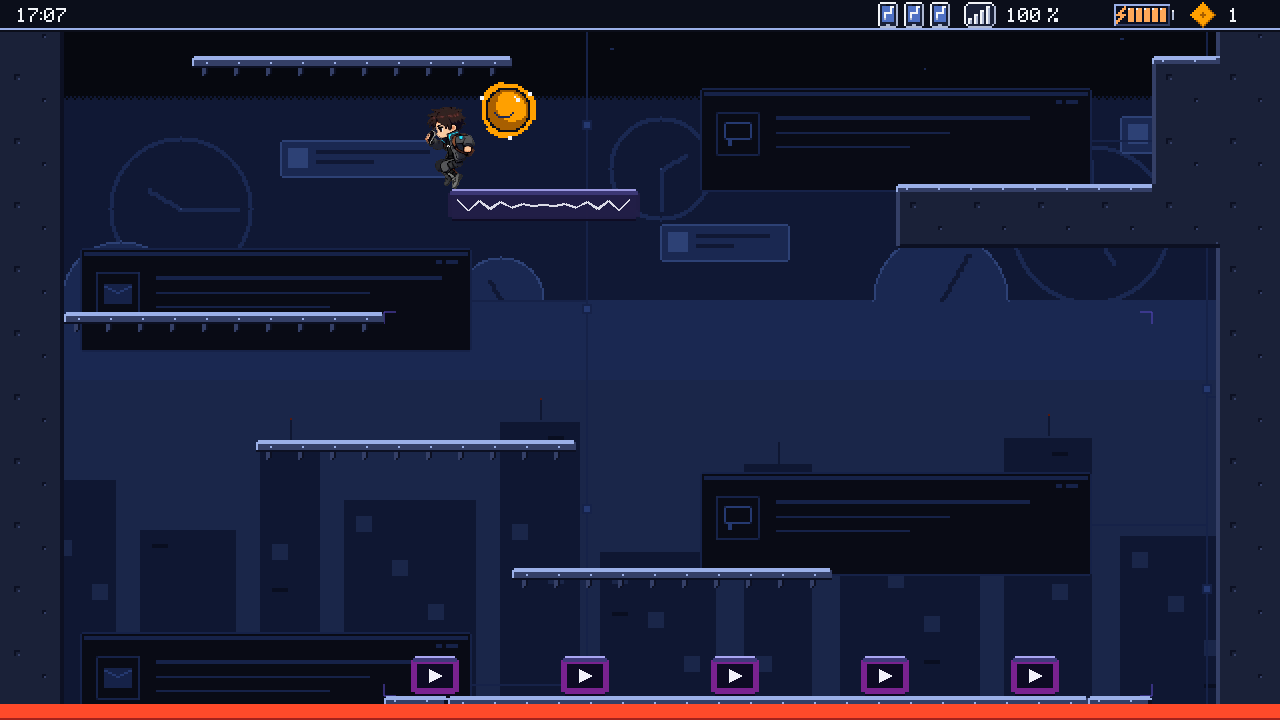
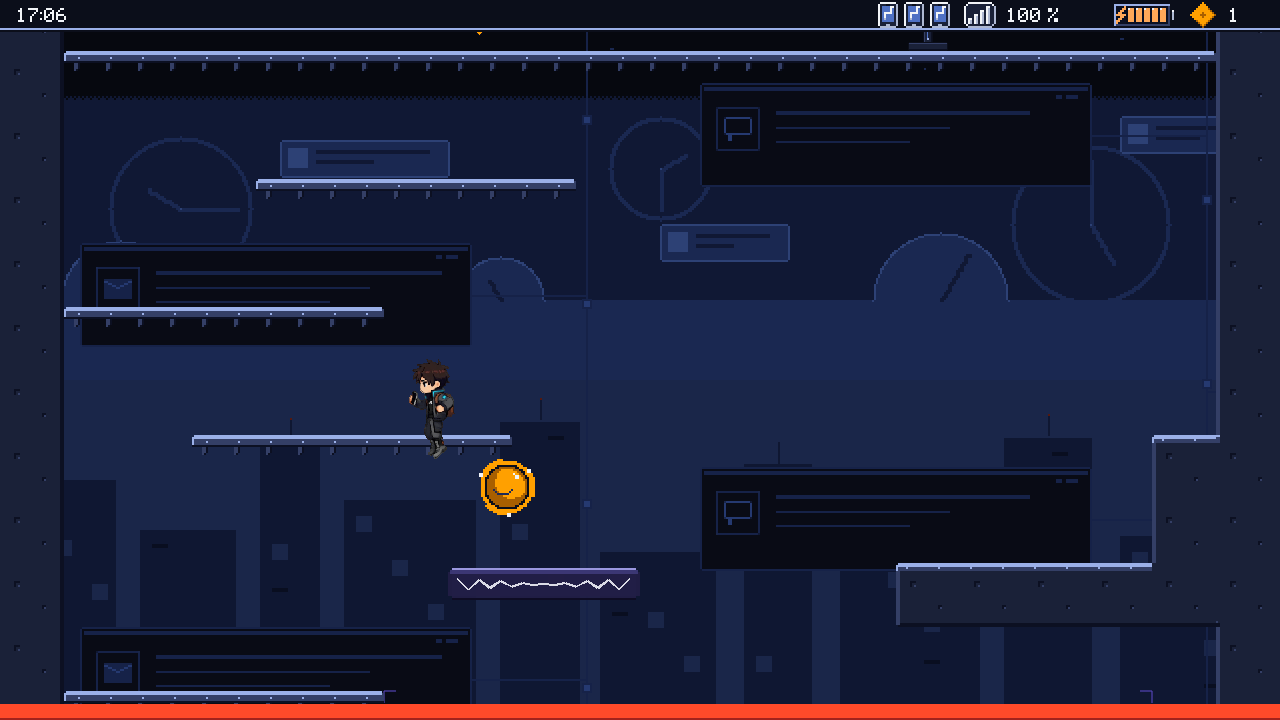
Mundo 2, 2-1: scroll mas rapido y recarga de energia en el bucle (feedback del usuario)
- 2-1: scroll un 30 % mas rapido (0,65/0,78/0,78/0,9 tiles/s); camino 204,6 -> 160,5 s.
- Regla anti-atasco: cargador_bucle (+100, 10 s) dentro de la banda del bucle en 2-1, 2-2 y bucle_test.
- Validador: check_loop_energy modela el peor caso (entra al bucle con 0 de energia) y falla con
  «soft-lock de energia» si no se puede recargar y salir; pruebas positivas y negativas.

diff --git a/tools/level_plan.py b/tools/level_plan.py
@@ -582,6 +582,7 @@ class Planner:
         steps = self.check_clones(steps)
         steps = self.check_scroll(steps)
         steps = self.check_energy(steps)
+        self.check_loop_energy(steps)
         self.info["bars"] = []
         for st in steps:
             if st.get("target", {}).get("type") == "update_bar":
@@ -2897,6 +2898,9 @@ class Planner:
                 energy -= need
             uses += need
             s["energy_before"] = round(energy + need, 1)
+            if a == "drain":
+                # Peor caso de un bucle (check_loop_energy): Isak entra sin energia.
+                energy = 0.0
             if a == "charge":
                 ch = s["charger"]
                 if s["tw"] + EPS >= ready_at.get(ch["id"], 0.0) and energy < cap - EPS:
@@ -2976,6 +2980,162 @@ class Planner:
         if energy + ch["amount"] + EPS < need and need > self.rules.energy_max:
             return None
         return steps[:k] + insert + steps[k:]
+
+    # --- Soft-lock de energia en los bucles (Mundo 2; arreglo tras la primera prueba del usuario, 2026-10-23) ---
+
+    def _loop_repeat_s(self, band):
+        """Segundos (tiempo del mundo) que tarda una repeticion de la banda: periodo / la velocidad mas alta
+        del scroll con el borde de abajo en las filas que recorre durante la repeticion."""
+        scroll = self.level.get("scroll", {}) if isinstance(self.level.get("scroll"), dict) else {}
+        default = float(scroll.get("default_speed_tiles_s", 0.5))
+        view = int(math.ceil(720.0 / self.T))
+        rows = range(band[0] + view, band[1] + view + 1)
+        speeds = []
+        for r in rows:
+            speed = default
+            for st in scroll.get("stages", []):
+                if st["y_from"] <= r <= st["y_to"]:
+                    speed = float(st["speed_tiles_s"])
+                    break
+            speeds.append(abs(speed))
+        top = max(speeds) if speeds else default
+        return (band[1] - band[0]) / top if top > 0.0 else INF
+
+    def check_loop_energy(self, steps):
+        """Regla anti-atasco de los bucles (docs/propuesta-mundo-2.md §8.1, «arreglo tras la primera prueba del
+        usuario»): la seccion en bucle se repite sin fin y su salida pide el Debug, asi que quien entra sin
+        energia (la minima posible tras la parte previa es 0: nada impide gastarla antes, p. ej. en el secreto
+        de la banda) tiene que poder recargar DENTRO de cada repeticion sin tocar el borde, o se queda atrapado.
+        Exige, por cada bucle cuya salida gasta Debug en el camino: (1) un cargador dentro de la banda (sus
+        filas se recorren en cada repeticion, asi que el cargador se repite con ella) que reponga, solo, todo
+        lo que pide la salida, reutilizable y con un enfriamiento que no pase de una repeticion (peor caso de
+        gasto: se gasta la carga entera, se falla y en la repeticion siguiente hay que poder volver a cargar);
+        y (2) que el camino, entrando al bucle con 0 de energia y pasando por ese cargador, siga cumpliendo la
+        energia, el margen del borde del scroll y llegue a la salida sin repetir. Si no: «soft-lock de
+        energia»."""
+        loops = self.level.get("_loops", [])
+        if not loops or self.level.get("camera", {}).get("vertical") != "autoscroll":
+            return
+        T = self.T
+        cap = self.rules.energy_max
+        report = []
+        for lp in loops:
+            b0, b1 = lp["band"]
+            ex = lp["exit"]
+
+            def in_exit(node):
+                x, feet = self.feet(node)
+                return ex[0] * T <= x < (ex[0] + ex[2]) * T and ex[1] * T <= feet - 1.0 < (ex[1] + ex[3]) * T
+
+            # Entrada al bucle: el primer paso con Isak en la banda o en las filas que la repiten debajo.
+            view = int(math.ceil(720.0 / T))
+            exit_i = entry_i = None
+            for i, s in enumerate(steps):
+                node = self.node_of(s)
+                if node is None:
+                    continue
+                if entry_i is None and b0 <= node[1] < b1 + view:
+                    entry_i = i
+                if s["action"] == "move" and in_exit(s["to"]):
+                    exit_i = i
+                    break
+            if exit_i is None or entry_i is None:
+                continue
+            need = sum(float(s.get("active_s", 0.0)) * self.debug_drain
+                       for s in steps[entry_i:exit_i + 1] if s["action"] == "debug_on")
+            if need <= EPS:
+                continue
+            repeat_s = self._loop_repeat_s(lp["band"])
+            entry = {"id": lp["id"], "need": round(need, 1), "repeat_s": round(repeat_s, 1), "charger": None}
+            report.append(entry)
+            in_band = [ch for ch in self.m.chargers if b0 <= ch["cell"][1] <= b1]
+            where = "filas %d-%d" % (b0, b1)
+            if not in_band:
+                self.error("seccion en bucle %s: soft-lock de energia: la salida pide %.0f de energia con el Debug y "
+                           "dentro de la banda (%s) no hay ningun cargador; quien entre al bucle sin energia no puede "
+                           "recargar y se queda atrapado" % (lp["id"], need, where))
+                continue
+            good = [ch for ch in in_band if ch["reusable"] and min(ch["amount"], cap) + EPS >= need
+                    and ch["cooldown"] <= repeat_s + EPS]
+            if not good:
+                ch = in_band[0]
+                why = ("es de un solo uso" if not ch["reusable"] else
+                       "repone %.0f y la salida pide %.0f" % (min(ch["amount"], cap), need)
+                       if min(ch["amount"], cap) + EPS < need else
+                       "se enfria %.1f s y una repeticion dura %.1f s" % (ch["cooldown"], repeat_s))
+                self.error("seccion en bucle %s: soft-lock de energia: el cargador %s de la banda no basta (%s)"
+                           % (lp["id"], ch["id"], why), ch["cell"])
+                continue
+            failures = None
+            for ch in good:
+                errors = self._loop_worst_case(steps, entry_i, exit_i, ch)
+                if not errors:
+                    entry["charger"] = ch["id"]
+                    entry["amount"] = min(ch["amount"], cap)
+                    entry["cooldown_s"] = ch["cooldown"]
+                    failures = None
+                    break
+                if failures is None:
+                    failures = (ch, errors)
+            if failures is not None:
+                ch, errors = failures
+                message, node = errors[0][0], errors[0][1]
+                self.error("seccion en bucle %s: soft-lock de energia: entrando sin energia y recargando en %s, %s"
+                           % (lp["id"], ch["id"], message), node)
+        if report:
+            self.info["loop_energy"] = report
+
+    def _loop_worst_case(self, steps, entry_i, exit_i, ch):
+        """Camino del peor caso: energia a 0 al entrar al bucle y recarga en el cargador `ch` de la banda (si
+        el camino no pasa ya por el, con el desvio mas corto desde un movimiento antes del primer Debug).
+        Devuelve los errores de energia y de scroll de ese camino (lista vacia si vale)."""
+        first_debug = next((i for i in range(entry_i, exit_i + 1) if steps[i]["action"] == "debug_on"), exit_i)
+        variant = [dict(s) for s in steps if s["action"] != "wait_scroll"]
+        # Indices en `variant` (sin las esperas del scroll, que se recalculan).
+        keep = [i for i, s in enumerate(steps) if s["action"] != "wait_scroll"]
+        pos = {i: k for k, i in enumerate(keep)}
+        v_entry = pos.get(entry_i, next((pos[i] for i in keep if i >= entry_i), len(variant)))
+        v_debug = next((pos[i] for i in keep if i >= first_debug), len(variant))
+        passes = any(s["action"] == "charge" and s["charger"]["id"] == ch["id"] for s in variant[v_entry:v_debug])
+        if not passes:
+            best = None
+            for k in range(v_entry, v_debug):
+                s = variant[k]
+                if s["action"] != "move" or s.get("timed"):
+                    continue
+                node = tuple(s["to"])
+                state = s.get("state", frozenset())
+                times, parent = self.m.time_search({node: 0.0}, state, debug=False)
+                for n in times:
+                    x, f = self.feet(n)
+                    if not rects_overlap(self.hurt_rect(x, f), ch["rect"]):
+                        continue
+                    back_times, back_parent = self.m.time_search({n: 0.0}, state, debug=False)
+                    if node not in back_times:
+                        continue
+                    cost = times[n] + back_times[node]
+                    if best is None or cost < best[0]:
+                        best = (cost, k, node, n, parent, back_parent, state)
+            if best is None:
+                return [("el cargador %s no se alcanza sin el Debug desde el camino del bucle" % ch["id"], None)]
+            _, k, node, target, parent, back_parent, state = best
+            insert = [self.move(u, e, state) for u, e in path_to(parent, target)]
+            insert.append({"action": "charge", "at": target, "charger": ch, "state": state, "detour": True,
+                           "target": {"type": "charger", "id": ch["id"]}})
+            insert.extend(self.move(u, e, state) for u, e in path_to(back_parent, node))
+            variant = variant[:k + 1] + insert + variant[k + 1:]
+        drain_at = self.node_of(variant[v_entry]) if v_entry < len(variant) else None
+        variant.insert(v_entry, {"action": "drain", "at": drain_at, "state": variant[v_entry].get("state", frozenset())
+                                 if v_entry < len(variant) else frozenset()})
+        saved_errors, saved_info = self.errors, dict(self.info)
+        self.errors = []
+        try:
+            variant = self.check_energy_with(variant, 8)
+            self.check_scroll(variant)
+            found = [(m, n) for m, n, _obj in self.errors]
+        finally:
+            self.errors, self.info = saved_errors, saved_info
+        return found
 
     def describe(self, s):
         a = s["action"]

diff --git a/tests/test_level_2_1.py b/tests/test_level_2_1.py
@@ -85,13 +85,30 @@ class Level21Test(unittest.TestCase):
         scroll = self.level["scroll"]
         self.assertEqual(scroll["start_resume_row"], row(8), "Arranca al subir a h 8")
         speeds = sorted((s["y_from"], s["speed_tiles_s"]) for s in scroll["stages"])
-        self.assertEqual([v for _, v in speeds], [0.7, 0.6, 0.6, 0.5], "0,5 / 0,6 / 0,6 / 0,7 de abajo arriba")
+        self.assertEqual([v for _, v in speeds], [0.9, 0.78, 0.78, 0.65],
+                         "0,65 / 0,78 / 0,78 / 0,9 de abajo arriba (un 30 % mas rapido tras la primera prueba del usuario)")
         self.assertEqual(scroll["stops"], [{"id": "sync_1", "at_row": row(62) + 2, "resume_row": row(63)}])
         info = self.result["plan"]["scroll"]
         self.assertGreaterEqual(info["margin_min_tiles"], 3.0, "Nunca a menos de 3 tiles del borde")
         self.assertEqual(info["loops"], ["bucle_para_ti"])
-        self.assertTrue(190.0 <= self.result["plan"]["duration_s"] <= 220.0,
-                        "Camino de unos 190-220 s (§4.1): %.1f" % self.result["plan"]["duration_s"])
+        self.assertTrue(145.0 <= self.result["plan"]["duration_s"] <= 180.0,
+                        "Camino de unos 160 s con el scroll mas rapido (antes 205 s): %.1f"
+                        % self.result["plan"]["duration_s"])
+
+    def test_loop_has_a_charger_against_the_energy_soft_lock(self):
+        """Arreglo tras la primera prueba del usuario (2026-10-23): quien llegaba al bucle sin energia se
+        quedaba atrapado. Cargador de carga completa dentro de la banda (se repite con ella), en el camino y
+        fuera de la vista en el momento de la repeticion; el validador modela el peor caso."""
+        loop = obj(self.level, "bucle_para_ti")
+        charger = obj(self.level, "cargador_bucle")
+        band = loop["params"]["band"]
+        self.assertTrue(band[0] + 12 <= charger["y"] <= band[1], "En la banda, fuera de la vista al repetirse")
+        self.assertEqual((charger["params"]["amount"], charger["params"]["reusable"]), (100.0, True))
+        report = {lp["id"]: lp for lp in self.result["plan"]["loop_energy"]}
+        entry = report["bucle_para_ti"]
+        self.assertEqual(entry["charger"], "cargador_bucle")
+        self.assertGreaterEqual(entry["amount"], entry["need"], "Una carga basta para la salida")
+        self.assertLessEqual(entry["cooldown_s"], entry["repeat_s"], "Se enfria antes de la repeticion siguiente")
 
     def test_autoplay_videos(self):
         ola, rayo, cuenta = (enemy(self.level, i) for i in ("video_ola", "video_rayo", "video_cuenta"))
@@ -173,7 +190,7 @@ class Level21Test(unittest.TestCase):
         self.assertEqual((points, points - secret_points, secret_points), (8, 6, 2),
                          "8 puntos: 6 en la ruta + 2 en secretos (§4.1.1)")
         chargers = sorted(o["params"]["id"] for o in lvl["objects"] if o["type"] == "charger")
-        self.assertEqual(chargers, ["cargador_1", "cargador_2"])
+        self.assertEqual(chargers, ["cargador_1", "cargador_2", "cargador_bucle"])
         self.assertFalse([o for o in lvl["objects"] if o["type"] == "power_bank_pickup"], "Sin power bank")
         self.assertGreater(self.result["plan"]["energy"]["min"], 0.0)
 

diff --git a/tests/test_world2_feed_validator.py b/tests/test_world2_feed_validator.py
@@ -252,3 +252,47 @@ class FeedHazardModelTest(unittest.TestCase):
 
 if __name__ == "__main__":
     unittest.main()
+
+
+class LoopEnergySoftLockTest(unittest.TestCase):
+    """Regla anti-atasco de los bucles (2026-10-23, arreglo tras la primera prueba del usuario del 2-1): la
+    salida del bucle pide el Debug y el bucle se repite sin fin, asi que quien entra sin energia tiene que
+    poder recargar dentro de la banda; el validador modela ese peor caso."""
+
+    def test_loop_with_a_charger_in_the_band_validates(self):
+        result = run(load("bucle_test"))
+        self.assertTrue(result["ok"], messages(result))
+        report = {lp["id"]: lp for lp in result["plan"]["loop_energy"]}
+        self.assertEqual(report["bucle_1"]["charger"], "cargador_bucle")
+
+    def test_loop_without_a_charger_is_an_energy_soft_lock(self):
+        level = load("bucle_test")
+        level["objects"] = [o for o in level["objects"] if o["type"] != "charger"]
+        result = run(level)
+        self.assertFalse(result["ok"])
+        self.assertTrue(any("soft-lock de energia" in m and "bucle_1" in m for m in messages(result)),
+                        messages(result))
+
+    def test_charger_that_does_not_cover_the_exit_is_an_energy_soft_lock(self):
+        level = load("bucle_test")
+        charger = next(o for o in level["objects"] if o["type"] == "charger")
+        charger["params"]["amount"] = 20.0
+        result = run(level)
+        self.assertTrue(any("soft-lock de energia" in m and "repone 20" in m for m in messages(result)),
+                        messages(result))
+
+    def test_charger_that_cools_down_longer_than_a_repeat_is_an_energy_soft_lock(self):
+        level = load("bucle_test")
+        charger = next(o for o in level["objects"] if o["type"] == "charger")
+        charger["params"]["cooldown_s"] = 60.0
+        result = run(level)
+        self.assertTrue(any("soft-lock de energia" in m and "se enfria" in m for m in messages(result)),
+                        messages(result))
+
+    def test_charger_below_the_band_does_not_count(self):
+        level = load("bucle_test")
+        charger = next(o for o in level["objects"] if o["type"] == "charger")
+        charger["x"], charger["y"] = 8, 66
+        result = run(level)
+        self.assertTrue(any("soft-lock de energia" in m and "no hay ningun cargador" in m
+                            for m in messages(result)), messages(result))

diff --git a/tests/test_level_2_2.py b/tests/test_level_2_2.py
@@ -228,6 +228,16 @@ class Level22Test(unittest.TestCase):
         self.assertEqual(door["params"]["variant"], "upright")
         self.assertIn("pound:puerta_servicio", items["secreto_servicio"]["secret_gates_opened"])
 
+    def test_loop_has_a_charger_against_the_energy_soft_lock(self):
+        """Arreglo tras la primera prueba del usuario (2026-10-23): un cargador dentro de la banda del bucle;
+        el validador exige que quien entre sin energia pueda recargar y salir (peor caso)."""
+        loop = obj(self.level, "bucle_uno_mas")
+        charger = obj(self.level, "cargador_bucle")
+        self.assertTrue(loop["params"]["band"][0] <= charger["y"] <= loop["params"]["band"][1], "En la banda")
+        self.assertEqual(charger["params"]["amount"], 100.0, "Carga completa")
+        report = {lp["id"]: lp for lp in self.result["plan"]["loop_energy"]}
+        self.assertEqual(report["bucle_uno_mas"]["charger"], "cargador_bucle")
+
     def test_economy(self):
         lvl = self.level
         points = "".join(lvl["grid"]).count("o")
@@ -235,7 +245,7 @@ class Level22Test(unittest.TestCase):
         self.assertEqual((points, points - secret_points, secret_points), (9, 6, 3),
                          "9 puntos: 6 en la ruta + 3 en secretos (§4.2.1)")
         chargers = sorted(o["params"]["id"] for o in lvl["objects"] if o["type"] == "charger")
-        self.assertEqual(chargers, ["cargador_1", "cargador_2", "cargador_3"])
+        self.assertEqual(chargers, ["cargador_1", "cargador_2", "cargador_3", "cargador_bucle"])
         self.assertEqual(len([o for o in lvl["objects"] if o["type"] == "power_bank_pickup"]), 1, "1 power bank")
         self.assertFalse([o for o in lvl["objects"] if o["type"] == "extra_life_pickup"], "Sin vida extra")
         self.assertGreater(self.result["plan"]["energy"]["min"], 0.0)

diff --git a/tools/validate_level.py b/tools/validate_level.py
@@ -3553,6 +3553,12 @@ def format_plan(plan):
                        "" if not scroll.get("at") else " en (fila %d, columna %d)" % tuple(scroll["at"]),
                        scroll["required_tiles"], scroll["waits"], scroll["wait_s"],
                        "; bucles: %s" % ", ".join(scroll["loops"]) if scroll.get("loops") else ""))
+    for lp in plan.get("loop_energy", []):
+        # Regla anti-atasco de los bucles (2026-10-23, arreglo tras la primera prueba del usuario).
+        if lp.get("charger"):
+            out.append("    bucle %s: la salida pide %.0f de energia; peor caso (entra sin energia): recarga en %s "
+                       "(+%.0f, enfriamiento %.1f s; una repeticion dura %.1f s) y sale sin tocar el borde" % (
+                           lp["id"], lp["need"], lp["charger"], lp["amount"], lp["cooldown_s"], lp["repeat_s"]))
     energy = plan.get("energy")
     if energy:
         out.append("    energia: empieza en %.0f, gasta %.0f, recupera %.0f, minimo %.0f, termina en %.0f%s%s" % (

diff --git a/docs/propuesta-mundo-2.md b/docs/propuesta-mundo-2.md
@@ -165,7 +165,7 @@ Los tipos del Mundo 1 (Burbuja, punto rojo, banner, pop-up) **no aparecen** en e
 
 **Doc:** presentar el scroll forzado y el autoplay; unos 5 min; dificultad 2; tramos 1-4, cierre «Quedan 3 segundos…», secreto (tarjeta oculta con video en negro y recuerdo, con el Debug), un punto de sincronización a mitad.
 
-- **Mapa: 20 × 130** (1280 × 8320 px). `target_duration_s` **300**; camino del validador de unos **190-220 s** (con scroll forzado el camino no puede ir más deprisa que el feed). Dificultad `2`. `abilities_available`: pulso, láser, Debug y dash (el gesto `ground_pound`, **no**).
+- **Mapa: 20 × 130** (1280 × 8320 px). `target_duration_s` **300**; camino del validador de unos **190-220 s** (con scroll forzado el camino no puede ir más deprisa que el feed). **Desde el 2026-10-23** (primera prueba del usuario, §8.1): scroll un 30 % más rápido (0,65 / 0,78 / 0,78 / 0,9 tiles/s en lugar de los de la tabla) y camino de unos **160 s**. Dificultad `2`. `abilities_available`: pulso, láser, Debug y dash (el gesto `ground_pound`, **no**).
 
 | Tramo | Alturas | Scroll | Contenido | Duración (camino) |
 |---|---|---|---|---|
@@ -194,7 +194,7 @@ Los tipos del Mundo 1 (Burbuja, punto rojo, banner, pop-up) **no aparecen** en e
 | **Total** | **6** | **2 puntos + mensaje + vida extra** |
 
 - **8 puntos** (6 + 2): la vida extra ocupa el sitio del tercer punto. **PROPUESTA:** compensarlo con 10 en el 2-3 (§4.3), para que el mundo sume 27 como el Mundo 1.
-- **Cargadores:** 2 (+50, reutilizables, 10 s). **Power bank:** no. **Puntos de sincronización:** 1 (`sync_1`, a mitad, doc).
+- **Cargadores:** 2 (+50, reutilizables, 10 s) y, desde el 2026-10-23, `cargador_bucle` (+100) dentro de la banda del bucle (regla anti-atasco, §8.1). **Power bank:** no. **Puntos de sincronización:** 1 (`sync_1`, a mitad, doc).
 - **Energía:** obligatoria ~40 (Debug del bucle); típica 60-80 (secretos A y B, láser a los videos aturdidos). Cada uso obligatorio tiene un cargador a pie (regla anti-atasco, `propuesta-1-2.md` §0.1).
 
 ### 4.2 Nivel 2-2 «Un video más»
@@ -581,6 +581,7 @@ Primera tanda (2026-10-22): los fundamentos técnicos (pasos 0-5 y la parte del 
 - **Paso 21 (hecho 2026-10-23): pruebas de conjunto.** **Negativos:** quieto pierde en el jefe (`tests/test_autoplay_bot.gd`, perfil `idle`, ya estaba); sin Debug no hay pausa (`tests/test_autoplay.gd`: golpe al suelo sin Debug solo chispa, el pulso nunca pausa, ya estaban); **nuevo** `test_waiting_in_the_2_1_is_punished_by_the_edge_without_killing` (`tests/test_scroll_camera.gd`): Isak quieto en el 2-1 real tras arrancar el scroll recibe varios contactos del borde, −10 por contacto, nunca queda por debajo y no muere. **Validador del Mundo 1** comparado con 72d16f7 (worktree aparte, sin tocar el árbol): 1-1, 1-3 y 1-boss (texto y `--json`) idénticos byte a byte; el 1-2 tiene una línea más (`recordatorios suelto_b`, el cruce que el arreglo del paso 12 dejó de saltarse) con el mismo resultado y camino. **Suite completa:** la primera pasada dio 1553 pruebas GUT con 38 fallos (Python 543 en verde) y se arreglaron con commits pequeños: (1) **fallo real** de `AudioManager`: el `ScrollEdgeOverlay` llegaba dos veces a `_on_node_added` y la segunda conexión de `tree_exiting` del ambiente (`amb_w2_feed` / `mus_w2_level`) daba un error del motor que GUT cuenta como fallo en todas las pruebas con scroll forzado (2-1, 2-2, 2-3, `scroll_test`, subidas, carteles); (2) **fugas de habilidades desbloqueadas entre scripts** que hacían fallar `test_dnd_switch`, `test_eco_encounter` y `test_help_inert` (avisos de control de más, pickups que no aparecen): `test_alert_major` (tres arenas vivas a la vez liberadas por el autofree después de `after_each`; fallaba ya en 72d16f7), `test_debug_sandbox` (la `test_arena` desbloquea pulso, Deslizar y, desde el paso 1, el golpe al suelo sin devolverlos) y `test_feed_sign_layer` (paso 12: los niveles del Mundo 2 vivos a la vez); ahora una arena / un nivel por vez y `after_each` restaura lo que toca; y `test_calc_room` / `test_laser_pierce_calc_room` exigían el paso 0 del guion de Eco antes de pausar, cuando el guion corre en `_process` y depende del ritmo de los cuadros (ahora comprueba que en pausa no avanza desde donde estaba). **Resultado final (2026-10-23, tras los pasos 21 y 22): `tools/run_tests.sh` en verde (código 0) en unos 50 min de pared: 543 pruebas Python (unos 24 min) y 1553 pruebas GUT en 133 scripts (unos 15 min), con los bots del Mundo 2 (`test_feed_bot`, `test_autoplay_bot`).**
 - **Paso 22 (hecho 2026-10-23; capturas pendientes de revisión del usuario): capturas, mapas y docs.** **Mapas** al día (`tools/render_level_map.py`): 2-1, 2-2 y 2-3 idénticos a los guardados y nuevo `assets/levels_preview/2-boss_mapa.png`. **Capturas** con el flujo real: `tools/render_level_2_x.gd` (lanzador; `-- --level 2-1|2-2|2-3|2-boss|all` y `--out <carpeta>`, por defecto `assets/levels_preview/<nivel>/`; con `all`, un proceso por nivel) juega con los bots y captura los momentos clave: `tools/render_level_2_x_feed.gd` extiende `tools/feed_bot.gd` (llegada, scroll en marcha, primer dash, video avisando y en su clip, bucle, frágil contando, clones, Comentarista, Historia, reproductor y golpe al suelo, inversión, muro con golpes y roto, tarjeta final contando, hub) y `tools/render_level_2_x_boss.gd` extiende `tools/autoplay_bot.gd` (intro, cada fase y su pausa, la «Cuenta atrás», golpe final, desarme, recompensa, hub con la pieza ámbar y la carpeta del Mundo 3 «Próximamente»; retiene la recompensa y el hub hasta tenerlas). Necesita ventana (unos 6 min las cuatro); con `--headless` es un modo de prueba que juega igual y lista las capturas. Hechas el 2026-10-23: 10 del 2-1, 14 del 2-2, 13 del 2-3 y 13 del jefe. **Desvío:** el 2-2 no tiene `08_fragil` (el bot rompe las frágiles con el golpe antes de que cuenten) ni el 2-3 `09_clones` (el muro se rompe antes de que haya dos clones); se capturan si el recorrido cambia. **Docs:** `mundo-2-feed.md` §7.8 (diseño final, decisiones y valores), `08-pendientes.md`, `INDEX.md` (fila de esta propuesta), `preguntas.md` («Mundo 2: lo que el usuario debe revisar al probar») y `CLAUDE.md`.
 - **Paso 23, Autoplay (hecho 2026-10-23): arte final de la pantalla con AutoSprite.** Detalle, créditos y lecciones en `docs/plan-arte-mundo-2.md` §1. El base `pixelArt` volvió a pintar un chico debajo: se recortó solo la pantalla, se pasó a su rejilla nativa, se estiró a 2:1 duplicando columnas lisas, se redujo a `mundo2.gpl` (magenta rosado a `magenta` / `magenta_sombra`, nunca a `alerta`) y se subió gratis («Autoplay (pantalla)»); poses `Playing`, `Loading` y `Paused` (9) y animaciones turbo `idle`, `clip_cast`, `countdown`, `paused`, `x2` y `defeat` en una llamada (30), sin reintentos: **39 créditos en esta fase, saldo 403**. `tools/import_boss_autoplay.py` (`--check`) deja 117 cuadros `assets/sprites/bosses/autoplay_<anim>_NN.png` (rejilla de 4 px, pantalla de 512 × 256 en un lienzo de 576 × 320, paleta B sin rojos ni ámbar) y `Autoplay` elige la animación por estado (`get_art_anim`: pausa, cuenta, x2 en la fase 3, clip, reposo, derrota) en tiempo del mundo; el contador «99+» entra en la pantalla. **Sin cambios** de tiempos, cajas, daño ni textos: bot ideal en Caché 105,4 s, 0 golpes, como antes. Siguen por script con `_placeholder`: el pie, el cabezal, las tarjetas, las fichas del álbum y las pantallas provisionales (respaldo y origen de la ficha `autoplay`). Pendientes con su propio visto bueno: Comentarista y pose `ground_pound`.
+- **Decisión tomada: arreglo tras la primera prueba del usuario (2026-10-23).** El usuario jugó el 2-1 y dijo (1) «el 2-1 puede subir un poco más rápido» y (2) que, como el bucle se repite sin fin, si se acaba la energía «te quedas atrapado en el bucle y no puedes continuar» (soft-lock: la salida pide el Debug y dentro del bucle no había forma de recargar; `cargador_1`, en la Pausa, queda fuera de la vista tras la primera repetición y además solo daba 50 frente a los 53 de la salida). **(a) Scroll del 2-1 un 30 % más rápido:** tramos 0,5 / 0,6 / 0,6 / 0,7 → **0,65 / 0,78 / 0,78 / 0,9** tiles/s (`default_speed_tiles_s` 0,65; solo en el 2-1; `data/camera_scroll.json` no cambia). Camino del validador **204,6 → 160,5 s** (esperas del techo de carga 127,7 → 83,6 s), margen mínimo 6,5 tiles (exigido 3); el bot lo completa en 161,2 s con 0 golpes. **(b) Regla anti-atasco de los bucles:** cada bucle cuya salida gasta Debug lleva un **`cargador_bucle` de carga completa (+100, reutilizable, 10 s de enfriamiento) dentro de la banda**: las filas de la banda se recorren en cada repetición, así que el cargador «se repite» con ella; va en el camino y en las filas que no se ven en el momento de la repetición (no hace falta copia). 2-1: columna 6, fila 50 (h 79), donde pasa el camino; una repetición dura 17,9 s. 2-2: columna 15, fila 66 (h 83), también en el camino; repetición de 33,3 s, la salida pide 18. El 2-3 no tiene bucle. **Validador** (`Planner.check_loop_energy` en `tools/level_plan.py`): por cada bucle cuya salida gasta Debug exige (1) un cargador en la banda, reutilizable, que reponga solo lo que pide la salida y que se enfríe en menos de una repetición (peor caso de gasto: se gasta la carga entera, se falla y hay que volver a cargar en la siguiente), y (2) que el camino, **entrando al bucle con 0 de energía** (lo mínimo posible tras la parte previa) y pasando por ese cargador (con el desvío más corto si el camino no pasa ya), cumpla la energía y el margen del borde y llegue a la salida sin repetir; si no, error «soft-lock de energia». La salida añade la línea «bucle …: la salida pide N de energia; peor caso (entra sin energia): recarga en …». Negativos en `tests/test_world2_feed_validator.py` (`LoopEnergySoftLockTest`: sin cargador, cargador que no cubre la salida, enfriamiento más largo que una repetición y cargador bajo la banda) y positivos en `tests/test_level_2_1.py` / `tests/test_level_2_2.py`. La sala `bucle_test` también lleva su cargador (columna 6, fila 38, fuera del camino directo: prueba el desvío). La salida del validador del resto de niveles (1-1, 1-2, 1-3, 1-boss, 2-3 y salas) no cambia. Economía: 3 cargadores en el 2-1 y 4 en el 2-2.
 
 ---
 

diff --git a/CLAUDE.md b/CLAUDE.md
@@ -107,7 +107,7 @@ Desde la raíz del repo (`GODOT=/Applications/Godot.app/Contents/MacOS/Godot`):
 - Bot del jefe Alerta Mayor (paso 14 de `docs/propuesta-jefe-alerta-mayor.md`, 2026-10-21; `tools/boss_bot.gd`, lanzador `tools/play_boss_bot.gd`): pelea en la arena `1-boss` real con el Isak real y solo acciones del Input Map (nunca Q ni Esc); no sigue un camino: es **reactivo**, una política por fase que lee la API de `AlertMajor` / `BossBase` / `WeakPoint` (reflejos: dash a través de barridos, notificaciones y lanzamientos o salto si el dash no está listo, cambio de carril ante las ráfagas, fuera de las columnas de las campanas; en cada ventana Debug → pulso que marca → soltar el Debug → láser mientras dure la marca; recarga por debajo de 40). Perfiles `--profile ideal` (por defecto: vence sin morir), `clumsy` (torpe: sigue `validation_model` del JSON del jefe —ventanas perdidas, segundos de Debug, un láser fallado por ventana, copia equivocada— y vence sin que el Debug se corte por energía en una ventana) e `idle` (quieto: debe perder); accesos `--lap 1|2|3` (Caché / Kernel / Raíz, por `GameState.lap`). Mide la duración de la pelea frente a `target_duration_s`, los golpes, las muertes y la energía mínima (en ventana y por fase, frente al margen del validador) y comprueba la recompensa sin guardar y la vuelta al hub con el Mundo 2. `$GODOT --headless --fixed-fps 60 --path . -s tools/play_boss_bot.gd [-- --profile clumsy --lap 2 --verbose]` (determinista; unos 4-10 s de pared). Resultados del 2026-10-21: ideal 57,5 / 63,8 / 44,1 s y torpe 196 / 217 / 229 s (Caché / Kernel / Raíz), todos sin golpes ni muertes; tras los ajustes de §6.4 (Debug ×0,7 en la arena con `debug_world_scale`, ráfaga a 0,9 s, laterales de la fase 3 de una vía con `blink_platform.one_way`, campanas en las columnas 2, 11 y 21), ideal 67,5 / 67,3 / 53,8 s y torpe 183 / 175 / 203 s, sin golpes ni muertes; `--trace` vuelca lo que ve el bot. Usa `user://bot_save.json`. Lo ejecuta la suite (`tests/test_boss_bot.gd`, unos 50 s).
 - Bot del jefe Autoplay (paso 19 de `docs/propuesta-mundo-2.md`, 2026-10-23; `tools/autoplay_bot.gd`, mismo lanzador que Alerta Mayor con `--boss autoplay`): pelea en la arena `2-boss` real con el Isak real y solo acciones del Input Map (nunca Q ni Esc; golpe al suelo = mantener `move_down`); reactivo: dash o salto ante la ola, el barrido y el abanico, fuera de la columna de los rayos, espera en la barra y en cada ventana Debug → golpe al suelo sobre el cabezal → pausa → láser a la pantalla; recarga en los cargadores y sube por la cinta. Perfiles `ideal` / `clumsy` (`validation_model` de `data/bosses/autoplay.json`) / `idle` y `--lap 1|2|3`; mide la duración frente a `target_duration_s`, golpes, muertes, energía mínima y gasto por ventana frente al margen del validador, y comprueba `boss_w2_l<n>` sin guardar y el hub con el Mundo 3 «Próximamente» (y la pieza ámbar en Caché). `$GODOT --headless --fixed-fps 60 --path . -s tools/play_boss_bot.gd -- --boss autoplay [--profile clumsy --lap 2 --verbose --trace]` (determinista; unos 3-6 s de pared, el quieto 12 s). Resultados del 2026-10-23: ideal 24,8 / 26,8 / 26,8 s (Caché / Kernel / Raíz) sin golpes; torpe 85,2 / 113,8 / 112,2 s sin muertes ni cortes del Debug; quieto, game over. Tras el ajuste de duración del mismo día (un golpe por pausa con `pause_hits`, 4/4/4 golpes en Caché y 5/5/5 en Kernel y Raíz, 2 / 3 / 3 clips por ventana y rayos en dos tandas en la fase 3 de Raíz; `docs/propuesta-mundo-2.md` §8.1): ideal 105,4 / 128,4 / 136,2 s sin golpes, torpe 140,8 / 162,3 / 174,8 s sin muertes ni cortes del Debug (márgenes del validador 40 / 37,5 / 35), quieto, game over. Usa `user://bot_save.json`. Lo ejecuta la suite (`tests/test_autoplay_bot.gd`, unos 40 s).
 - Bot que recorre el 1-3 real (paso 11 de `docs/propuesta-1-3.md`, 2026-10-20; `tools/dnd_bot.gd`, que extiende `tools/tower_bot.gd`): exporta el camino con `tools/validate_level.py` y lo sigue con la física real y las acciones del Input Map (nunca Q ni Esc), con el progreso de quien acaba de completar el 1-2 (sin el dash): enciende el interruptor «No molestar» con el pulso de espaldas, cruza el banner obligatorio con el dash, el metrónomo (`wait_beat`) y el túnel de alarmas y activa la terminal «Deslizar para desbloquear»; código 0 si completa el nivel y vuelve al hub con el 1-3 completado. `$GODOT --headless --fixed-fps 60 --path . -s tools/play_dnd_bot.gd` (unos 86 s de juego —camino 81,7 s—, unos 3,5 min de pared con la exportación; 9 dashes, 0 golpes desde el 2026-10-20: arco real y `validation.hazard_margin_s` 0,1, ver `docs/propuesta-1-3.md` §7, paso 11). Opciones: `--path <camino.json>`, `--verbose`, `--shots <carpeta>`. Usa `user://bot_save.json`. Lo ejecuta la suite (`tests/test_dnd_bot.gd`).
-- Bot del feed que recorre el 2-1 real (paso 12 de `docs/propuesta-mundo-2.md`, 2026-10-23; `tools/feed_bot.gd`, que extiende `tools/dnd_bot.gd`): exporta el camino con `tools/validate_level.py` y lo sigue con la física real y las acciones del Input Map (nunca Q ni Esc), con el progreso de quien acaba de vencer a Alerta Mayor: esperas del techo de carga del scroll (`wait_scroll`), fase de los videos (`wait_phase`), bucle con el Debug, dash entre frágiles, golpe al suelo (`ground_pound`, mantener `move_down`) y la cuenta de 3 s de la terminal; código 0 si vuelve al hub con el nivel completado sin tocar el borde, sin morir y sin repetir un bucle. `$GODOT --headless --fixed-fps 60 --path . -s tools/play_feed_bot.gd [-- --level 2-1|2-2|2-3]` (2-1: 205 s de juego —camino 204,6 s—, 0 golpes, energía mínima 47,7; unos 40 s de pared con la exportación; 2-2: 239 s de juego —camino 239,9 s—, 0 golpes, energía mínima 68, obtiene el golpe al suelo en el reproductor; unos 70 s de pared; 2-3: 244,2 s de juego —camino 243,7 s—, 0 golpes, 7 golpes al suelo, energía mínima 100; unos 3 min de pared con la exportación). Opciones: `--path <camino.json>`, `--verbose`, `--shots <carpeta>`. Usa `user://bot_save.json`. Lo ejecuta la suite (`tests/test_feed_bot.gd`).
+- Bot del feed que recorre el 2-1 real (paso 12 de `docs/propuesta-mundo-2.md`, 2026-10-23; `tools/feed_bot.gd`, que extiende `tools/dnd_bot.gd`): exporta el camino con `tools/validate_level.py` y lo sigue con la física real y las acciones del Input Map (nunca Q ni Esc), con el progreso de quien acaba de vencer a Alerta Mayor: esperas del techo de carga del scroll (`wait_scroll`), fase de los videos (`wait_phase`), bucle con el Debug, dash entre frágiles, golpe al suelo (`ground_pound`, mantener `move_down`) y la cuenta de 3 s de la terminal; código 0 si vuelve al hub con el nivel completado sin tocar el borde, sin morir y sin repetir un bucle. `$GODOT --headless --fixed-fps 60 --path . -s tools/play_feed_bot.gd [-- --level 2-1|2-2|2-3]` (2-1: 161,2 s de juego —camino 160,5 s, scroll un 30 % más rápido desde el 2026-10-23—, 0 golpes, energía mínima 46,3; unos 70 s de pared con la exportación; 2-2: 239 s de juego —camino 239,9 s—, 0 golpes, energía mínima 68, obtiene el golpe al suelo en el reproductor; unos 70 s de pared; 2-3: 244,2 s de juego —camino 243,7 s—, 0 golpes, 7 golpes al suelo, energía mínima 100; unos 3 min de pared con la exportación). Opciones: `--path <camino.json>`, `--verbose`, `--shots <carpeta>`. Usa `user://bot_save.json`. Lo ejecuta la suite (`tests/test_feed_bot.gd`).
 - Sala «Ajustes» de prueba (paso 3 de `docs/propuesta-1-3.md` §7, 2026-10-19): `ajustes_test.tscn` (26 × 12, `data/levels/ajustes_test.json`): interruptor «No molestar» (pulso G de espaldas: da el dash, línea de Eco propuesta y aviso «Deslizar: L / B (mando)») y un pasillo de techo bajo para probar el dash (L); por el flujo de juego, con avisos: `$GODOT --path . -- --start-level=ajustes_test` (build de depuración); sin enlace desde el hub; el bot no la recorre. Capturas de la línea, el aviso y un dash: las 03-05 de `tools/render_ability_notices.gd`; la fila Deslizar de Ajustes > Controles: las 15-16 de `tools/render_pause_menu.gd`.
 - Sala «Silenciados» de prueba (paso 4 de `docs/propuesta-1-3.md` §7, 2026-10-19): `silenciados_test.tscn` (40 × 12, `data/levels/silenciados_test.json`; pulso y dash desbloqueados): pasillo obligatorio de techo bajo con el banner que solo se cruza con el dash (L; andando, el golpe te devuelve a la entrada) y pasillo con nicho (salto, nicho o dash); por el flujo de juego: `$GODOT --path . -- --start-level=silenciados_test` (build de depuración); sin enlace desde el hub; el bot no la recorre. Capturas (Q y ayuda del banner obligatorio, aviso, barrido, dash a través, tras el dash, golpe que devuelve a la entrada y nicho): `$GODOT --path . -s tools/render_silenciados_test.gd -- <carpeta>`.
 - Sala «Vibración» de prueba (paso 5 de `docs/propuesta-1-3.md` §7, 2026-10-19): `vibracion_test.tscn` (36 × 12, `data/levels/vibracion_test.json`; pulso y Debug): metrónomo que arranca al entrar, foso con dos grupos alternos y escalera en ola de tres grupos; mantener K para ver el compás más lento; `$GODOT --path . -- --start-level=vibracion_test` (build de depuración); sin enlace desde el hub; el bot no la recorre. Capturas (grupos alternos, aviso, Isak en una plataforma, ola, compás rápido y Debug): `$GODOT --path . -s tools/render_vibracion_test.gd -- <carpeta>`.
